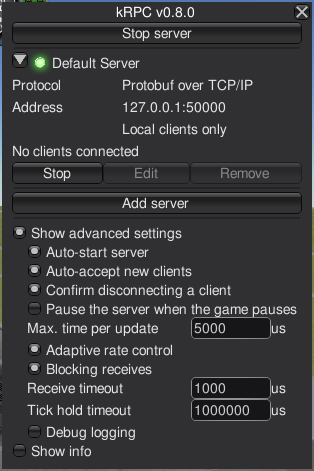
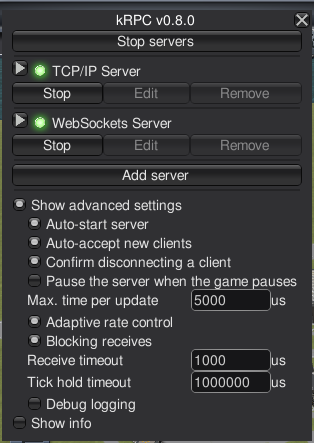
Start a WebSockets server on port 50001 by default
Each protocol has its own default port in KRPC.Core: 50000 for TCP/IP
and 50001 for WebSockets, so one server of each runs side by side.
A new install's settings hold both servers, and the server window
fills in the port of the protocol it edits. A saved configuration is
left as the user set it.

diff --git a/doc/src/scripts/tutorials/control-panel/control-panel.html b/doc/src/scripts/tutorials/control-panel/control-panel.html
@@ -55,7 +55,7 @@
 <body>
   <section>
     <input id="address" value="127.0.0.1" size="12">
-    <input id="port" value="50000" size="5">
+    <input id="port" value="50001" size="5">
     <button id="connect">Connect</button>
     <span id="vessel"></span>
   </section>

diff --git a/doc/src/scripts/communication-protocols/websockets/RPC.js b/doc/src/scripts/communication-protocols/websockets/RPC.js
@@ -21,7 +21,7 @@ function receive(event) {
 }
 
 // Open a websockets connection to the server
-const conn = new WebSocket("ws://127.0.0.1:50000/");
+const conn = new WebSocket("ws://127.0.0.1:50001/");
 conn.binaryType = "arraybuffer";
 
 conn.onopen = () => {

diff --git a/doc/src/scripts/communication-protocols/websockets/Stream.js b/doc/src/scripts/communication-protocols/websockets/Stream.js
@@ -22,7 +22,7 @@ function receive(event) {
 }
 
 // Open a websockets connection to the server
-const conn = new WebSocket("ws://127.0.0.1:50000/");
+const conn = new WebSocket("ws://127.0.0.1:50001/");
 conn.binaryType = "arraybuffer";
 
 conn.onopen = () => {

diff --git a/core/src/Configuration.cs b/core/src/Configuration.cs
@@ -1,5 +1,6 @@
 using System;
 using System.Collections.Generic;
+using System.Globalization;
 using System.Net;
 using KRPC.Server;
 using KRPC.Server.TCP;
@@ -76,16 +77,28 @@ namespace KRPC
             public IDictionary<string, string> Settings { get; set; }
 
             /// <summary>
-            /// Construct default settings for a server
+            /// Construct default settings for a TCP/IP server
             /// </summary>
-            public Server()
+            public Server() : this (Protocol.ProtocolBuffersOverTCP)
             {
+            }
+
+            /// <summary>
+            /// Construct default settings for a TCP/IP or WebSockets server, which listens on
+            /// the loopback address and the protocol's default port
+            /// </summary>
+            public Server(Protocol protocol)
+            {
+                if (protocol != Protocol.ProtocolBuffersOverTCP && protocol != Protocol.ProtocolBuffersOverWebsockets)
+                    throw new ArgumentException ("No default settings for " + protocol, nameof (protocol));
+                var websockets = protocol == Protocol.ProtocolBuffersOverWebsockets;
+                var prefix = websockets ? "ws_" : "tcpip_";
                 Id = Guid.NewGuid();
-                Name = "Default Server";
-                Protocol = Protocol.ProtocolBuffersOverTCP;
+                Name = websockets ? "WebSockets Server" : "TCP/IP Server";
+                Protocol = protocol;
                 Settings = new Dictionary<string, string>{
-                    {"tcpip_address", IPAddress.Loopback.ToString()},
-                    {"tcpip_port", "50000"}};
+                    {prefix + "address", IPAddress.Loopback.ToString()},
+                    {prefix + "port", DefaultPort (protocol).ToString (CultureInfo.InvariantCulture)}};
             }
 
             /// <summary>
@@ -102,7 +115,7 @@ namespace KRPC
                     var serverAddress = IPAddress.Loopback;
                     IPAddress.TryParse(Settings.GetValueOrDefault(prefix + "address", IPAddress.Loopback.ToString()), out serverAddress);
                     ushort port = 0;
-                    ushort.TryParse(Settings.GetValueOrDefault(prefix + "port", "50000"), out port);
+                    ushort.TryParse(Settings.GetValueOrDefault(prefix + "port", DefaultPort (serverProtocol).ToString (CultureInfo.InvariantCulture)), out port);
                     var tcpServer = new TCPServer (serverAddress, port);
                     if (serverProtocol == Protocol.ProtocolBuffersOverTCP)
                         messageServer = new KRPC.Server.ProtocolBuffers.Server (tcpServer);
@@ -128,6 +141,34 @@ namespace KRPC
                 }
                 return new KRPC.Server.Server (Id, serverProtocol, Name, messageServer);
             }
+        }
+
+        /// <summary>
+        /// The port a server of the protocol listens on by default: 50000 for TCP/IP and
+        /// 50001 for WebSockets. Zero for a protocol with no port.
+        /// </summary>
+        public static ushort DefaultPort (Protocol protocol)
+        {
+            switch (protocol) {
+            case Protocol.ProtocolBuffersOverTCP:
+                return 50000;
+            case Protocol.ProtocolBuffersOverWebsockets:
+                return 50001;
+            default:
+                return 0;
+            }
+        }
+
+        /// <summary>
+        /// The servers of a new configuration: a TCP/IP server and a WebSockets server, each
+        /// on the loopback address and its protocol's default port
+        /// </summary>
+        public static IList<Server> DefaultServers ()
+        {
+            return new List<Server> {
+                new Server (Protocol.ProtocolBuffersOverTCP),
+                new Server (Protocol.ProtocolBuffersOverWebsockets)
+            };
         }
 
         private readonly List<Server> servers = new List<Server> ();

diff --git a/core/test/ConfigurationTest.cs b/core/test/ConfigurationTest.cs
@@ -1,3 +1,4 @@
+using KRPC.Server;
 using NUnit.Framework;
 
 namespace KRPC.Test
@@ -11,6 +12,37 @@ namespace KRPC.Test
             var config = new Configuration ();
             Assert.AreEqual (true, config.MainWindowVisible);
             Assert.AreEqual (true, config.AutoAcceptConnections);
+        }
+
+        [Test]
+        public void DefaultServers ()
+        {
+            var servers = Configuration.DefaultServers ();
+            Assert.AreEqual (2, servers.Count);
+            Assert.AreEqual (Protocol.ProtocolBuffersOverTCP, servers [0].Protocol);
+            Assert.AreEqual ("127.0.0.1", servers [0].Settings ["tcpip_address"]);
+            Assert.AreEqual ("50000", servers [0].Settings ["tcpip_port"]);
+            Assert.AreEqual (Protocol.ProtocolBuffersOverWebsockets, servers [1].Protocol);
+            Assert.AreEqual ("127.0.0.1", servers [1].Settings ["ws_address"]);
+            Assert.AreEqual ("50001", servers [1].Settings ["ws_port"]);
+            Assert.AreNotEqual (servers [0].Id, servers [1].Id);
+        }
+
+        [Test]
+        public void DefaultPort ()
+        {
+            Assert.AreEqual (50000, Configuration.DefaultPort (Protocol.ProtocolBuffersOverTCP));
+            Assert.AreEqual (50001, Configuration.DefaultPort (Protocol.ProtocolBuffersOverWebsockets));
+            Assert.AreEqual (0, Configuration.DefaultPort (Protocol.ProtocolBuffersOverLocalSocket));
+        }
+
+        [Test]
+        public void ServerWithoutPortSetting ()
+        {
+            // A server whose settings have no port listens on its protocol's default port
+            var config = new Configuration.Server (Protocol.ProtocolBuffersOverWebsockets);
+            config.Settings.Remove ("ws_port");
+            Assert.AreEqual ("ws://127.0.0.1:50001", config.Create ().Address);
         }
     }
 }

diff --git a/server/src/ConfigurationFile.cs b/server/src/ConfigurationFile.cs
@@ -28,7 +28,7 @@ namespace KRPC
         public sealed class Server
         {
             [Persistent] string id = Guid.NewGuid ().ToString ();
-            [Persistent] string name = "Default Server";
+            [Persistent] string name = "TCP/IP Server";
             [Persistent] string protocol = Protocol.ProtocolBuffersOverTCP.ToString ();
             [Persistent] List<KeyValuePair> settings = new List<KeyValuePair> {
                 new KeyValuePair {key = "tcpip_address", value = "127.0.0.1"},
@@ -85,9 +85,11 @@ namespace KRPC
             // Start each setting at its default, so a setting missing from the file, or with a
             // value that does not parse, keeps it
             BeforeSave ();
-            // Without settings, as in a new install, start with one server
-            if (!Load ())
-                Configuration.Servers.Add (new Configuration.Server ());
+            // Without settings, as in a new install, start with the default servers
+            if (!Load ()) {
+                foreach (var server in Configuration.DefaultServers ())
+                    Configuration.Servers.Add (server);
+            }
             Save ();
         }
 

diff --git a/server/src/UI/EditServer.cs b/server/src/UI/EditServer.cs
@@ -1,5 +1,6 @@
 using System;
 using System.Collections.Generic;
+using System.Globalization;
 using System.Linq;
 using System.Net;
 using KRPC.Server;
@@ -164,7 +165,7 @@ namespace KRPC.UI
                 GUILayout.BeginHorizontal();
                 DrawFieldLabel (portLabelText);
                 if (!settings.ContainsKey(portKey))
-                    settings[portKey] = "50000";
+                    settings[portKey] = Configuration.DefaultPort (protocol).ToString (CultureInfo.InvariantCulture);
                 settings[portKey] = GUILayoutExtensions.FilterDigits (
                     GUILayoutExtensions.ValidatedTextField (settings[portKey], portMaxLength, window.stretchyTextFieldStyle,
                         ValidPort (settings[portKey]), window.errorColor));

diff --git a/doc/src/getting-started.rst b/doc/src/getting-started.rst
@@ -22,23 +22,25 @@ Installation
    Copy the ``GameData`` folder from the zip into your KSP folder. You can also install kRPC with
    `CKAN <https://github.com/KSP-CKAN/CKAN>`_.
 
-2. Start KSP and load a save. The server window appears, with one server with the default
-   settings. The server starts when the game loads, and the light next to it turns green:
+2. Start KSP and load a save. The server window appears, with two servers: "TCP/IP Server" on
+   port 50000, and "WebSockets Server" on port 50001 for the JavaScript client. The servers start
+   when the game loads, and the light next to each turns green:
 
    .. image:: /images/getting-started/server-window.png
 
-3. Click the server's name to show or hide its details: the protocol, the address and the
-   connected clients. "Stop server" and "Start server" stop and start it.
+3. Click a server's name to show or hide its details: the protocol, the address and the
+   connected clients. Its "Stop" and "Start" buttons stop and start it, and "Stop servers" and
+   "Start servers" stop and start them all.
 
 4. The close button in the top right hides the window. The kRPC button in the toolbar shows and
-   hides it again, and turns green while the server is running:
+   hides it again, and turns green while a server is running:
 
    .. image:: /images/getting-started/applauncher.png
 
 Configuration
 ^^^^^^^^^^^^^
 
-Stop the server, then click "Edit" to change its settings. Click "Save" to keep them:
+Stop a server, then click its "Edit" button to change its settings. Click "Save" to keep them:
 
 1. **Protocol**: How clients connect. The Python client connects over "Protobuf over TCP/IP",
    the default, or "Protobuf over local socket". Each client guide lists the protocols its client
@@ -46,10 +48,10 @@ Stop the server, then click "Edit" to change its settings. Click "Save" to keep 
 2. **Address**: The address the server listens on. "localhost", the default, accepts connections
    from the same machine only. To accept connections over a network, select one of the machine's
    addresses, "Any" for all of them, or "Manual" to type one in.
-3. **Port**: The TCP port, 50000 by default. Change it only if another program uses that port.
+3. **Port**: The TCP port, 50000 by default for TCP/IP and 50001 for WebSockets. Change it only
+   if another program uses that port.
 
-"Add server" adds another server, for example to accept clients over a second protocol. "Start
-server" starts every server in the window.
+"Add server" adds another server, for example one over a local socket.
 
 "Show advanced settings" reveals these settings:
 

diff --git a/doc/src/communication-protocols/websockets.rst b/doc/src/communication-protocols/websockets.rst
@@ -16,11 +16,12 @@ in one binary websockets message. The websockets message may be split across fra
 Connecting
 ----------
 
-To use this protocol, add a server in the server window and select *Protobuf over WebSockets* as
-its protocol. Its address and port default to ``127.0.0.1`` and ``50000``.
+A new install has a server for this protocol in the server window, at address ``127.0.0.1`` and
+port ``50001``. To add another, add a server and select *Protobuf over WebSockets* as its
+protocol.
 
 Open a websockets connection to the server with the path ``/``, for example
-``ws://127.0.0.1:50000/``. The upgrade request names no subprotocol. Then send the
+``ws://127.0.0.1:50001/``. The upgrade request names no subprotocol. Then send the
 :ref:`connection handshake <communication-protocol-handshake>`. The upgrade and the
 ``connection_request`` together have 3 seconds to arrive, timed from the TCP connection.
 

diff --git a/doc/src/tutorials/control-panel.rst b/doc/src/tutorials/control-panel.rst
@@ -26,8 +26,8 @@ installs the client and `esbuild <https://esbuild.github.io>`_, then bundles the
 The ``iife`` format gives a classic script, which a browser runs from a page opened as a local
 file. Open ``control-panel.html`` in the browser.
 
-In the game, add a server in the server window, select "Protobuf over WebSockets" as its protocol,
-and start it. Then enter its address and port in the panel, and click "Connect".
+In the game, the server window has a "Protobuf over WebSockets" server on port 50001 by default.
+Enter its address and port in the panel, and click "Connect".
 
 The Page
 --------

diff --git a/changelog.d/default-servers.md b/changelog.d/default-servers.md
@@ -1,0 +1,5 @@
+## server
+
+- Add a WebSockets server on port 50001 to a new install, beside the TCP/IP server on port 50000,
+  and name each for its protocol (#1371)
+- Default the port of a WebSockets server to 50001 in the server window (#1371)
